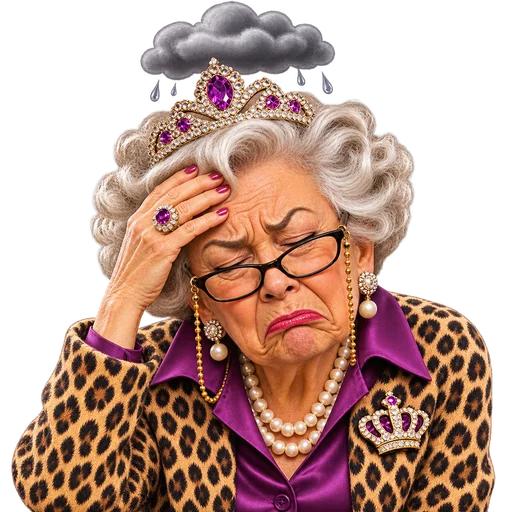
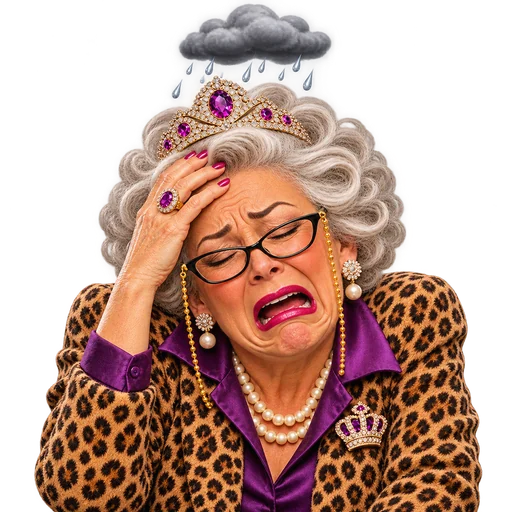
Add files via upload

diff --git a/public/avatars/README.md b/public/avatars/README.md
@@ -7,4 +7,4 @@
 
 Example: `av-03-landlord-win.webp`. Missing files show a coloured initial instead.
 
-Still to come (the game uses the think pose until they arrive): lose poses for 01 swot, 04 professor, 06 librarian, 07 telly, 08 pundit, 09 diva, 10 jar, 11 cat, 12 explorer.
+All 36 poses are in place.
